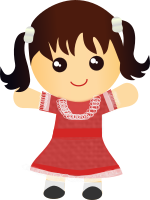
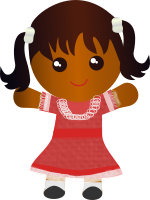
Adding analytics and updated skin tone images

diff --git a/Little Family Tree/scenes/BubbleScene.swift b/Little Family Tree/scenes/BubbleScene.swift
@@ -8,17 +8,7 @@
 
 import Foundation
 import SpriteKit
-fileprivate func < <T : Comparable>(lhs: T?, rhs: T?) -> Bool {
-  switch (lhs, rhs) {
-  case let (l?, r?):
-    return l < r
-  case (nil, _?):
-    return true
-  default:
-    return false
-  }
-}
-
+import Firebase
 
 class BubbleScene: LittleFamilyScene {
     static var TOPIC_WATER = "topic_water"
@@ -175,6 +165,10 @@ class BubbleScene: LittleFamilyScene {
         loadPeople()
         
         EventHandler.getInstance().subscribe(BubbleScene.TOPIC_WATER, listener: self)
+        
+        FIRAnalytics.logEvent(withName: kFIREventViewItem, parameters: [
+            kFIRParameterItemName: String(describing: BubbleScene.self) as NSObject
+        ])
     }
 
     func loadPeople() {
@@ -213,7 +207,7 @@ class BubbleScene: LittleFamilyScene {
         })
         
         dataService.getParents(person, onCompletion: { parents, err in
-            if parents == nil || parents?.count < 2 {
+            if parents == nil || parents!.count < 2 {
                 self.loadPeople()
             }
             else {

diff --git a/Little Family Tree/scenes/ChooseCultureScene.swift b/Little Family Tree/scenes/ChooseCultureScene.swift
@@ -8,6 +8,7 @@
 
 import Foundation
 import SpriteKit
+import Firebase
 
 class ChooseCultureScene: LittleFamilyScene, CalculatorCompleteListener {
     static var TOPIC_PERSON_TOUCHED = "personTouched"
@@ -137,6 +138,7 @@ class ChooseCultureScene: LittleFamilyScene, CalculatorCompleteListener {
         self.speak("Calculating your heritage. Please wait...")
         
         EventHandler.getInstance().subscribe(ChooseCultureScene.TOPIC_PERSON_TOUCHED, listener: self)
+        
     }
     
     override func willMove(from view: SKView) {
@@ -230,6 +232,11 @@ class ChooseCultureScene: LittleFamilyScene, CalculatorCompleteListener {
             if count > 0 {
                self.setSelectedPath(self.calculator!.uniquePaths[0]) 
             }
+            
+            FIRAnalytics.logEvent(withName: kFIREventViewItem, parameters: [
+                kFIRParameterItemName: String(describing: ChooseCultureScene.self) as NSObject,
+                "NumberOfCultures": count as NSObject
+            ])
         }
     }
     

diff --git a/Little Family Tree/scenes/BirthdayPeopleScene.swift b/Little Family Tree/scenes/BirthdayPeopleScene.swift
@@ -9,6 +9,8 @@
 import Foundation
 import SpriteKit
 import GPUImage
+import Firebase
+
 fileprivate func < <T : Comparable>(lhs: T?, rhs: T?) -> Bool {
   switch (lhs, rhs) {
   case let (l?, r?):
@@ -134,6 +136,10 @@ class BirthdayPeopleScene: LittleFamilyScene {
 		EventHandler.getInstance().subscribe(BirthdayPeopleScene.TOPIC_CARD_SELECTED, listener: self)
 		EventHandler.getInstance().subscribe(BirthdayPeopleScene.TOPIC_SHARE_IMAGE, listener: self)
 		EventHandler.getInstance().subscribe(BirthdayPeopleScene.TOPIC_SHOW_CUPCAKES, listener: self)
+        
+        FIRAnalytics.logEvent(withName: kFIREventViewItem, parameters: [
+            kFIRParameterItemName: String(describing: BirthdayPeopleScene.self) as NSObject
+        ])
     }
 	
 	override func willMove(from view: SKView) {

diff --git a/Little Family Tree/scenes/DressUpScene.swift b/Little Family Tree/scenes/DressUpScene.swift
@@ -9,6 +9,8 @@
 import Foundation
 import SpriteKit
 import GPUImage
+import Firebase
+
 fileprivate func < <T : Comparable>(lhs: T?, rhs: T?) -> Bool {
   switch (lhs, rhs) {
   case let (l?, r?):
@@ -150,6 +152,12 @@ class DressUpScene: LittleFamilyScene, ChooseSkinToneListener {
         }
         
         EventHandler.getInstance().subscribe(DressUpScene.TOPIC_CHANGE_SKIN, listener: self)
+        
+        FIRAnalytics.logEvent(withName: kFIREventViewItem, parameters: [
+            kFIRParameterItemName: String(describing: DressUpScene.self) as NSObject,
+            "Place": self.dollConfig!.originalPlace! as NSObject,
+            "DollFolder": self.dollConfig!.folderName! as NSObject
+        ])
     }
     
     override func willMove(from view: SKView) {

diff --git a/Little Family Tree/scenes/ColoringScene.swift b/Little Family Tree/scenes/ColoringScene.swift
@@ -8,6 +8,7 @@
 
 import Foundation
 import SpriteKit
+import Firebase
 
 class ColoringScene: LittleFamilyScene, RandomMediaListener, ColorPaletteListener, BrushSizeListener {
     static var TOPIC_NEXT_IMAGE = "nextImage"
@@ -118,6 +119,10 @@ class ColoringScene: LittleFamilyScene, RandomMediaListener, ColorPaletteListene
         
         EventHandler.getInstance().subscribe(ColoringScene.TOPIC_NEXT_IMAGE, listener: self)
         EventHandler.getInstance().subscribe(ColoringScene.TOPIC_SHARE_IMAGE, listener: self)
+        
+        FIRAnalytics.logEvent(withName: kFIREventViewItem, parameters: [
+            kFIRParameterItemName: String(describing: ColoringScene.self) as NSObject
+        ])
     }
     
     override func willMove(from view: SKView) {

diff --git a/Little Family Tree/scenes/SongScene.swift b/Little Family Tree/scenes/SongScene.swift
@@ -9,6 +9,8 @@
 import Foundation
 import SpriteKit
 import AVFoundation
+import Firebase
+
 fileprivate func < <T : Comparable>(lhs: T?, rhs: T?) -> Bool {
   switch (lhs, rhs) {
   case let (l?, r?):
@@ -367,6 +369,10 @@ class SongScene: LittleFamilyScene, TreeWalkerListener {
         treeWalker = TreeWalker(person: selectedPerson!, listener:self, reusePeople: true)
         treeWalker!.loadFamilyMembers()
         speak("Choose a song.")
+        
+        FIRAnalytics.logEvent(withName: kFIREventViewItem, parameters: [
+            kFIRParameterItemName: String(describing: SongScene.self) as NSObject
+        ])
     }
     
     override func willMove(from view: SKView) {

diff --git a/Little Family Tree/scenes/PuzzleScene.swift b/Little Family Tree/scenes/PuzzleScene.swift
@@ -8,6 +8,7 @@
 
 import Foundation
 import SpriteKit
+import Firebase
 
 class PuzzleScene: LittleFamilyScene, RandomMediaListener {
     var randomMediaChooser = RandomMediaChooser.getInstance()
@@ -44,6 +45,10 @@ class PuzzleScene: LittleFamilyScene, RandomMediaListener {
         randomMediaChooser.listener = self
         randomMediaChooser.addPeople([selectedPerson!])
         randomMediaChooser.loadMoreFamilyMembers()
+        
+        FIRAnalytics.logEvent(withName: kFIREventViewItem, parameters: [
+            kFIRParameterItemName: String(describing: PuzzleScene.self) as NSObject
+        ])
     }
     
     override func willMove(from view: SKView) {

diff --git a/Little Family Tree/scenes/TreeScene.swift b/Little Family Tree/scenes/TreeScene.swift
@@ -8,6 +8,8 @@
 
 import Foundation
 import SpriteKit
+import Firebase
+
 fileprivate func < <T : Comparable>(lhs: T?, rhs: T?) -> Bool {
   switch (lhs, rhs) {
   case let (l?, r?):
@@ -302,6 +304,10 @@ class TreeScene: LittleFamilyScene {
         treeSearchButton?.addAction(1, action: searchAction)
         treeSearchButton?.addTexture(2, texture: SKTexture(imageNamed: "tree_search8"))
 		self.addChild(treeSearchButton!)
+        
+        FIRAnalytics.logEvent(withName: kFIREventViewItem, parameters: [
+            kFIRParameterItemName: String(describing: TreeScene.self) as NSObject
+        ])
     }
     
     override func willMove(from view: SKView) {

diff --git a/Little Family Tree/scenes/ScratchScene.swift b/Little Family Tree/scenes/ScratchScene.swift
@@ -8,6 +8,8 @@
 
 import Foundation
 import SpriteKit
+import Firebase
+
 fileprivate func < <T : Comparable>(lhs: T?, rhs: T?) -> Bool {
   switch (lhs, rhs) {
   case let (l?, r?):
@@ -50,6 +52,10 @@ class ScratchScene: LittleFamilyScene, RandomMediaListener {
         randomMediaChooser.listener = self
         randomMediaChooser.addPeople([selectedPerson!])
         randomMediaChooser.loadMoreFamilyMembers()
+        
+        FIRAnalytics.logEvent(withName: kFIREventViewItem, parameters: [
+            kFIRParameterItemName: String(describing: ScratchScene.self) as NSObject
+        ])
     }
     
     override func willMove(from view: SKView) {

diff --git a/Little Family Tree/scenes/BirdScene.swift b/Little Family Tree/scenes/BirdScene.swift
@@ -10,6 +10,7 @@ import Foundation
 import SpriteKit
 import CoreMotion
 import AudioToolbox
+import Firebase
 
 class BirdScene: LittleFamilyScene, TreeWalkerListener {
 	static var TOPIC_SKIP_CUTSCENE = "topicSkipCutScene"
@@ -91,6 +92,10 @@ class BirdScene: LittleFamilyScene, TreeWalkerListener {
         
 		motionManager = CMMotionManager()
 		motionManager.startAccelerometerUpdates()
+        
+        FIRAnalytics.logEvent(withName: kFIREventViewItem, parameters: [
+            kFIRParameterItemName: String(describing: BirdScene.self) as NSObject
+        ])
     }
     
     override func willMove(from view: SKView) {

diff --git a/Little Family Tree/scenes/MatchGameScene.swift b/Little Family Tree/scenes/MatchGameScene.swift
@@ -8,6 +8,7 @@
 
 import Foundation
 import SpriteKit
+import Firebase
 
 class MatchGameScene: LittleFamilyScene {
     var dataService:DataService?
@@ -39,6 +40,10 @@ class MatchGameScene: LittleFamilyScene {
         if selectedPerson != nil {
             loadMorePeople()
         }
+        
+        FIRAnalytics.logEvent(withName: kFIREventViewItem, parameters: [
+            kFIRParameterItemName: String(describing: MatchGameScene.self) as NSObject
+        ])
     }
     
     func loadMorePeople() {

diff --git a/Little Family Tree/gamelogic/DressUpDolls.swift b/Little Family Tree/gamelogic/DressUpDolls.swift
@@ -30,7 +30,7 @@ class DressUpDolls {
         countryMappings["spain"] = "spain"
 		countryMappings["portugal"] = "portugal"
         countryMappings["italy"] = "italy"
-        countryMappings["columbia"] = "columbia"
+        countryMappings["colombia"] = "columbia"
         countryMappings["chile"] = "chile"
         countryMappings["india"] = "india"
         countryMappings["philippines"] = "philippines"
